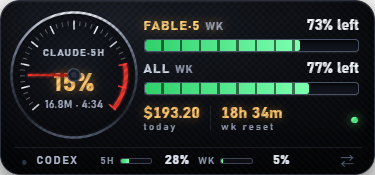
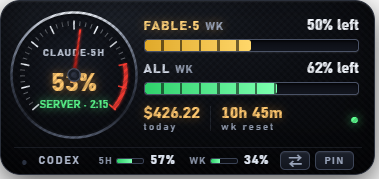
docs: setup-wizard screenshot in README; refresh preview to SERVER view

diff --git a/README.md b/README.md
@@ -189,8 +189,12 @@ request to Anthropic.
 **Easiest — the setup wizard:** tray → **Set up official usage…**. It finds the
 Claude CLI, injects your system proxy, opens a sign-in terminal (approve in your
 browser — no commands to type), and flips to green **✓ Connected** automatically.
-The tach's source tag then reads **`SERVER`** (green) for live official data,
-`STALE` (amber) for cached, or `EST` (dim) when it falls back to local.
+
+<img src="docs/setup-wizard.png" width="380" alt="Official usage setup wizard">
+
+The tach's source tag then reads **`SERVER`** (green, glowing) for live official
+data, `STALE` (amber) for cached, or `EST` (dim) when it falls back to local —
+so you can always tell at a glance which numbers you're looking at.
 
 The rest of this section is the manual path / reference.
 